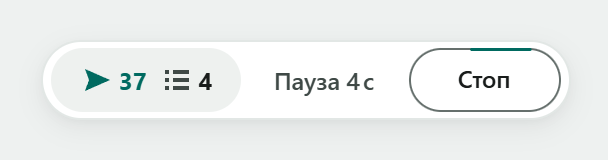
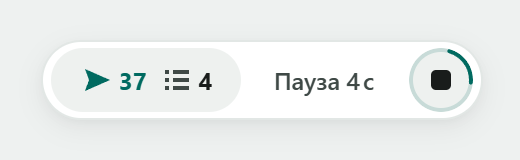
feat(hud): a round Стоп with a ring instead of the outlined button
The outlined Стоп was the one control of the pill with a dark border, and it
looked older than the rest of the widget. While a run goes, Старт now turns
into a 32 px round button on the grey of the counters, with a stop square,
and a teal arc runs round a faint ring, one lap in 2.4 s. The step takes
the room the button gives up.

- red under the pointer as before, but not in the first 0.7 s after the
  start: the pointer that pressed Старт is still over the shrinking button
- the word stays for screen readers; with reduced motion only the track
- in the open panel the slot keeps 76 px, so the tabs do not move
- README screenshots with the new button

diff --git a/hh-apply-assistant.user.js b/hh-apply-assistant.user.js
@@ -4351,8 +4351,8 @@ function cleanVacancyTitle(raw) {
     inboxEmpty: `<svg width="28" height="28" viewBox="0 0 24 24" fill="currentColor"><path d="M20 2H4c-1.1 0-2 .9-2 2v3.01c0 .72.43 1.34 1.04 1.63L3 20c0 1.1.9 2 2 2h14c1.1 0 2-.9 2-2l-.04-11.36c.61-.29 1.04-.91 1.04-1.63V4c0-1.1-.9-2-2-2zm-1 18H5l.04-11H19l-.04 11zM19 7H5V4h14v3zm-3 5H8v-2h8v2z"/></svg>`
   };
 
-  // The running segment of Стоп (see .hha-btn-sweep in the stylesheet).
-  const BTN_SWEEP = '<svg class="hha-btn-sweep" viewBox="0 0 76 32" preserveAspectRatio="none" aria-hidden="true" focusable="false"><rect x="0.75" y="0.75" width="74.5" height="30.5" rx="15.25" pathLength="100"></rect></svg>';
+  // The ring of the round Стоп (see .hha-btn-sweep in the stylesheet).
+  const BTN_SWEEP = '<svg class="hha-btn-sweep" viewBox="0 0 32 32" aria-hidden="true" focusable="false"><circle class="hha-ring-track" cx="16" cy="16" r="15"></circle><circle class="hha-ring-arc" cx="16" cy="16" r="15" pathLength="100" transform="rotate(-90 16 16)"></circle></svg>';
 
   // --- 3. Shadow DOM Stylesheet ---
 
@@ -4763,6 +4763,10 @@ function cleanVacancyTitle(raw) {
       position: relative;
       overflow: hidden;
       transition:
+        width 280ms var(--md-sys-motion-easing-standard),
+        min-width 280ms var(--md-sys-motion-easing-standard),
+        max-width 280ms var(--md-sys-motion-easing-standard),
+        flex-basis 280ms var(--md-sys-motion-easing-standard),
         background-color 180ms var(--md-sys-motion-easing-standard),
         color 180ms var(--md-sys-motion-easing-standard),
         box-shadow 180ms var(--md-sys-motion-easing-standard),
@@ -4793,6 +4797,10 @@ function cleanVacancyTitle(raw) {
     .hha-pill .hha-btn-quick {
       opacity: 1;
       transition:
+        width 280ms var(--md-sys-motion-easing-standard),
+        min-width 280ms var(--md-sys-motion-easing-standard),
+        max-width 280ms var(--md-sys-motion-easing-standard),
+        flex-basis 280ms var(--md-sys-motion-easing-standard),
         opacity 140ms ease-out 60ms,
         background-color 180ms var(--md-sys-motion-easing-standard),
         color 180ms var(--md-sys-motion-easing-standard),
@@ -4824,33 +4832,74 @@ function cleanVacancyTitle(raw) {
       transform: scale(0.97);
     }
 
-    /* Outlined Button for Stop. Red is kept for an error stop (Сброс), so a red pill
-       always means the run needs attention; stopping is an ordinary action and only
-       turns red under the pointer. */
+    /* Стоп while a run goes: a round button with a stop square and a ring round it, on the
+       same grey as the counters. A run is a process, and the ring reads as one: a short teal
+       arc goes round a faint track, one lap in 2.4 s. The word is kept for screen readers and
+       for the title, the square says it to the eye. Under the pointer the button turns red and
+       the ring gives way to it: red is kept for stopping and for an error stop. The pill's
+       button shrinks from 76 px to 32 and the step takes the room; in the panel footer the
+       slot keeps 76 px, so the tabs do not move, and the circle sits at its right edge. */
     .hha-btn-stop {
-      background: var(--md-sys-color-surface-container-lowest);
+      width: 32px;
+      min-width: 32px;
+      max-width: 32px;
+      flex: 0 0 32px;
+      padding: 0;
+      background: var(--md-sys-color-surface-container-high);
       color: var(--md-sys-color-on-surface);
-      box-shadow: 0 1px 3px transparent, 0 1px 2px transparent, inset 0 0 0 1px var(--md-sys-color-outline);
+      box-shadow: var(--hha-btn-shadow-flat);
+    }
+
+    .hha-btn-stop .hha-btn-label {
+      position: absolute;
+      width: 1px;
+      height: 1px;
+      overflow: hidden;
+      clip-path: inset(50%);
+      white-space: nowrap;
+    }
+
+    .hha-btn-stop::after {
+      content: '';
+      position: relative;
+      z-index: 1;
+      width: 10px;
+      height: 10px;
+      border-radius: 2.5px;
+      background: currentColor;
+      /* After the button has mostly shrunk: a square in a still wide button looked lost. */
+      animation: hhaStopIn 200ms var(--md-sys-motion-easing-emphasized-decelerate) 160ms backwards;
     }
 
     .hha-btn-stop:hover {
       background: var(--md-sys-color-error-container);
-      color: var(--md-sys-color-on-error-container);
-      box-shadow: 0 1px 3px transparent, 0 1px 2px transparent, inset 0 0 0 1px var(--md-sys-color-error);
+      color: var(--md-sys-color-error);
+    }
+
+    .hha-btn-stop.is-arriving:hover {
+      background: var(--md-sys-color-surface-container-high);
+      color: var(--md-sys-color-on-surface);
     }
 
     .hha-btn-stop:active {
       background: color-mix(in srgb, var(--md-sys-color-error-container) 85%, var(--md-sys-color-error));
-      color: var(--md-sys-color-on-error-container);
-      box-shadow: 0 1px 3px transparent, 0 1px 2px transparent, inset 0 0 0 1px var(--md-sys-color-error);
-      transform: scale(0.97);
+      color: var(--md-sys-color-error);
+      transform: scale(0.92);
     }
 
-    /* Indicator while a run goes: a short teal segment runs round the outline of Стоп,
-       one lap in 2.4 s. The whole button breathing every 2 s read as a pulse that pulled
-       the eye for the whole run. The segment is a stroke on an SVG the size of the
-       button (both quick buttons are 76x32); pathLength 100 makes the dash a share of
-       the outline. Under the pointer Стоп turns red, and the segment gives way to it. */
+    @keyframes hhaStopIn {
+      from {
+        opacity: 0;
+        transform: scale(0.4);
+      }
+      to {
+        opacity: 1;
+        transform: scale(1);
+      }
+    }
+
+    /* The ring: an SVG circle the size of the button; pathLength 100 makes the arc a share of
+       the circle, and moving its dash offset runs it round with rounded ends. */
     .hha-btn-sweep {
       position: absolute;
       inset: 0;
@@ -4861,28 +4910,35 @@ function cleanVacancyTitle(raw) {
       transition: opacity 160ms ease-out;
     }
 
-    .hha-btn-sweep rect {
+    .hha-btn-sweep circle {
       fill: none;
+      stroke-width: 2;
+    }
+
+    .hha-btn-sweep .hha-ring-track {
+      stroke: color-mix(in srgb, var(--md-sys-color-primary) 16%, transparent);
+    }
+
+    .hha-btn-sweep .hha-ring-arc {
       stroke: var(--md-sys-color-primary);
-      stroke-width: 1.5;
       stroke-linecap: round;
-      stroke-dasharray: 16 84;
+      stroke-dasharray: 22 78;
     }
 
     .hha-root.is-running .hha-btn-stop .hha-btn-sweep {
       opacity: 1;
     }
 
-    .hha-root.is-running .hha-btn-stop .hha-btn-sweep rect {
+    .hha-root.is-running .hha-btn-stop .hha-ring-arc {
       animation: hhaStopSweep 2.4s linear infinite;
     }
 
-    .hha-root.is-running .hha-btn-stop:hover .hha-btn-sweep {
+    .hha-root.is-running .hha-btn-stop:hover:not(.is-arriving) .hha-btn-sweep {
       opacity: 0;
     }
 
     /* The pill's copy of the button is hidden while the panel is open: no lap there. */
-    .hha-root.is-expanded .hha-pill .hha-btn-sweep rect {
+    .hha-root.is-expanded .hha-pill .hha-ring-arc {
       animation: none;
     }
 
@@ -5444,7 +5500,9 @@ function cleanVacancyTitle(raw) {
     .hha-footer-actions {
       display: inline-flex;
       align-items: center;
+      justify-content: flex-end;
       flex-shrink: 0;
+      width: 76px;
       margin-left: 0;
     }
 
@@ -5472,8 +5530,20 @@ function cleanVacancyTitle(raw) {
       opacity: 1;
       transform: translate3d(0, 0, 0);
       transition:
+        width 280ms var(--md-sys-motion-easing-standard),
+        min-width 280ms var(--md-sys-motion-easing-standard),
+        max-width 280ms var(--md-sys-motion-easing-standard),
+        flex-basis 280ms var(--md-sys-motion-easing-standard),
         transform 420ms var(--hha-motion-spring-easing, cubic-bezier(0.34, 1.15, 0.64, 1)) 0ms,
         opacity 160ms ease-out 20ms;
+    }
+
+    .hha-footer-actions .hha-btn-stop {
+      width: 32px;
+      min-width: 32px;
+      max-width: 32px;
+      flex: 0 0 32px;
+      padding: 0;
     }
 
     .hha-tab-btn {
@@ -6760,9 +6830,9 @@ function cleanVacancyTitle(raw) {
         animation: none !important;
       }
 
-      /* A segment standing still on the outline would look like a flaw: no indicator,
-         the step text and its countdown show the run. */
-      .hha-btn-sweep {
+      /* An arc standing still on the ring would look like a flaw: only the faint track
+         stays, and the step text and its countdown show the run. */
+      .hha-btn-sweep .hha-ring-arc {
         display: none !important;
       }
 
@@ -8734,6 +8804,13 @@ function cleanVacancyTitle(raw) {
             if (quickBtn.className !== desiredClassName) quickBtn.className = desiredClassName;
             labelEl.textContent = targetLabel;
             labelEl.classList.remove('is-swapping');
+            // Старт shrinks into the round Стоп under the pointer that pressed it: for a moment
+            // the pointer is not a hover, or the new button flashes red at every start.
+            if (labelChanged && isRunning) {
+              quickBtn.classList.add('is-arriving');
+              clearTimeout(quickBtn._arriveTimer);
+              quickBtn._arriveTimer = setTimeout(() => quickBtn.classList.remove('is-arriving'), 700);
+            }
           };
           if (this._hasSyncedStatus && labelChanged) {
             labelEl.classList.add('is-swapping');

diff --git a/README.md b/README.md
@@ -18,14 +18,14 @@
 * цифра у самолётика - отправлено откликов за сегодня. Счётчик считается по вашему времени, обнуляется в полночь и хранится в браузере. Лимит hh считает скользящие 24 часа, поэтому цифры могут не совпадать
 * цифра у списка - вакансий в очереди на ручной отклик
 
-Во время работы в пилюле рядом со счётчиком виден текущий шаг (`Пауза 4 с`, `Отклик`, `Жду hh.ru`), во время пауз с обратным отсчётом. Если навести на счётчик, появится подсказка с расшифровкой цифр и полным описанием шага. То же описание есть в строке статуса наверху раскрытой панели. Когда скрипт не работает, там сводка за день, а после остановки итог запуска: сколько времени он шёл и сколько откликов, вакансий в очередь и пропусков за это время, например `За 1 ч 35 мин: 120 откликов, 8 в очередь`. Причина остановки видна в подсказке при наведении на эту строку.
+Во время работы в пилюле рядом со счётчиком виден текущий шаг (`Пауза 4 с`, `Отклик`, `Жду hh.ru`), во время пауз с обратным отсчётом. Кнопка `Старт` на это время становится круглой кнопкой остановки с квадратом, а по кольцу вокруг неё бежит дуга: так видно, что скрипт работает. Если навести на счётчик, появится подсказка с расшифровкой цифр и полным описанием шага. То же описание есть в строке статуса наверху раскрытой панели. Когда скрипт не работает, там сводка за день, а после остановки итог запуска: сколько времени он шёл и сколько откликов, вакансий в очередь и пропусков за это время, например `За 1 ч 35 мин: 120 откликов, 8 в очередь`. Причина остановки видна в подсказке при наведении на эту строку.
 
 Если запуск требует внимания, это видно и в заголовке вкладки браузера: `Капча | ...` при остановке из-за ошибки (вместо `Капча` будет её причина), `Лимит | ...` при исчерпанном лимите, `Готово: 27 | ...`, когда выдача закончилась. Так остановку заметно в панели вкладок и на панели задач, даже если hh.ru открыт в отдельном окне. После следующего запуска или сброса заголовок становится обычным.
 
 <p align="center">
   <img src="docs/images/pill-idle.png" width="226" alt="Виджет в простое: 37 откликов за сегодня, 4 в очереди и кнопка Старт">
   &nbsp;&nbsp;
-  <img src="docs/images/pill-running.png" width="304" alt="Виджет во время работы: шаг Пауза с обратным отсчётом и кнопка Стоп">
+  <img src="docs/images/pill-running.png" width="260" alt="Виджет во время работы: шаг Пауза с обратным отсчётом и круглая кнопка Стоп с кольцом">
 </p>
 
 Виджет можно перетащить мышкой в удобное место, у краёв экрана он прилипает. Поднять его можно только до высоты, где над ним ещё помещается раскрытая панель. Место запоминается от ближайших краёв окна: если окно ненадолго стало меньше, например открыли DevTools, виджет потом вернётся туда, где был.
